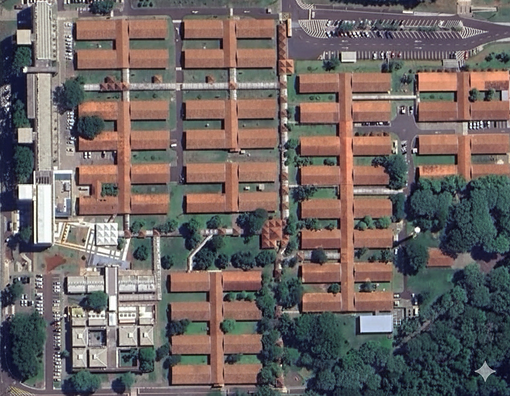
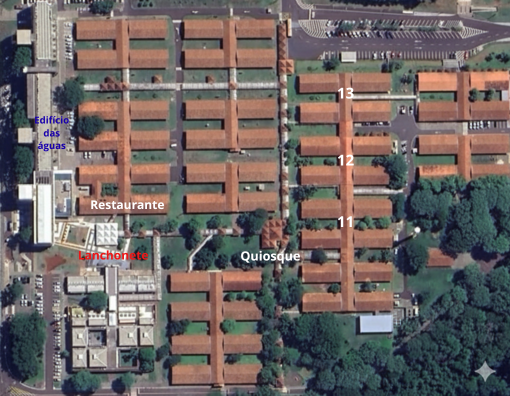
novas fotos

diff --git a/mapa.html b/mapa.html
@@ -69,16 +69,17 @@
     <!-- Pontos clicáveis -->
     <div class="ponto" data-scene="entrada" style="left:264px; top:40px;"></div>
     <div class="ponto" data-scene="edificio das aguas" style="left:60px; top:80px;"></div>
-    <div class="ponto" data-scene="entrada-eventos" style="left:300px; top:100px;"></div>
+    <div class="ponto" data-scene="entrada-eventos" style="left:315px; top:88px;"></div>
     <div class="ponto" data-scene="bloco 12" style="left:330px; top:180px;"></div>
     <div class="ponto" data-scene="quiosque" style="left:265px; top:225px;"></div>
     <div class="ponto" data-scene="porta lanchonete" style="left:120px; top:220px;"></div>
+    <div class="ponto" data-scene="LabMaker" style="left:400px; top:85px;"></div>
 
   </div>
 
   <script>
     // Recupera a última cena visitada ou usa 'entrada' como padrão
-    const ultimaCena = 'entrada';
+    const ultimaCena = localStorage.getItem('ultimaCena') ||'entrada';
 
     const viewer = pannellum.viewer('panorama', {
       "default": {
@@ -118,7 +119,6 @@
               "pitch": -10, "yaw": 85,
               "type": "scene",
               "text": "Seguir",
-              "scale": 10.0,
               "scale": 5.0,
               "sceneId": "blocos 8 e 9"
             },
@@ -220,7 +220,7 @@
           ]
         },
         "onibus-bloco7 fundos": {
-          "panorama": "./imgs/bloco7fundos_quiosque.jpeg",
+          "panorama": "./imgs/bloco7fundos_quiosque.jpg",
           "yaw": 40,
           "hotSpots": [
             {
@@ -264,7 +264,7 @@
               "type": "scene",
               "text": "LabMaker",
               "scale": 5.0,
-              "sceneId": ""
+              "sceneId": "caminho LabMaker"
             },
             {
               "pitch": -18, "yaw": 80,
@@ -275,8 +275,42 @@
             }
           ]
         },
+        "caminho LabMaker": {
+          "panorama": "./imgs/caminho labmaker.jpg",
+          "yaw":-10,
+          "hotSpots": [
+            {
+              "pitch": -5, "yaw": -20,
+              "type": "scene",
+              "text": "Labmaker",
+              "scale": 5.0,
+              "sceneId": "LabMaker"
+            },
+            {
+              "pitch": -5, "yaw": -190,
+              "type": "scene",
+              "text": "Voltar",
+              "scale": 5.0,
+              "sceneId": "entrada-eventos"
+            }
+          ]
+        },
+        "LabMaker": {
+          "panorama": "./imgs/labmaker.jpg",
+          "yaw":-10,
+          "hotSpots": [
+            {
+              "pitch": -18, "yaw": 80,
+              "type": "scene",
+              "text": "Voltar",
+              "scale": 5.0,
+              "sceneId": "entrada-eventos"
+            }
+          ]
+        },
         "entrada-florestan": {
-          "panorama": "./imgs/entrada_florestan.jpeg",
+          "panorama": "./imgs/entrada_florestan.jpg",
+          "yaw":-45,
           "hotSpots": [
             {
               "pitch": -5, "yaw": 0,
@@ -324,11 +358,39 @@
             {
               "pitch": -20, "yaw": 85,
               "type": "scene",
-              "text": "Bloco 12 - precisa editar ainda",
+              "text": "Bloco 12",
+              "targetYaw":70,
+              "scale": 5.0,
+              "sceneId": "bloco 12 coffee break"
+            }
+          ]
+        },
+        "bloco 12 coffee break": {
+          "yaw": 70,
+          "panorama": "./imgs/bloco 12 coffee break.jpg",
+          "hotSpots": [
+            {
+              "pitch": -10, "yaw": -95,
+              "type": "scene",
+              "text": "Voltar",
+              "targetYaw":130,
+              "scale": 5.0,
+              "sceneId": "divisao cesar lattes"
+            },
+            {
+              "pitch": -10, "yaw": 220,
+              "type": "scene",
+              "text": "Sair",
+              "scale": 5.0,
+              "sceneId": "onibus-eventos"
+            },
+            {
+              "pitch": -10, "yaw": 70,
+              "type": "scene",
+              "text": "Bloco 12",
               "scale": 5.0,
               "sceneId": "#"
             }
-
           ]
         },
         "florestan": {
@@ -593,11 +655,17 @@
   "bloco 7 2": {x:230, y:170},
   "fora bloco 7":{x:230,y:155},
   "edificio das aguas": { x: 67, y: 85 },
-  "entrada-eventos": { x: 305, y: 106 },
+  "entrada-eventos": { x: 322, y: 95 },
   "bloco 12": { x: 337, y: 185 },
   "quiosque": { x: 270, y: 230 },
   "quiosque biblioteca lanchonete":{x:153, y:225},
-  "porta lanchonete": { x: 126, y: 225 }
+  "porta lanchonete": { x: 126, y: 225 },
+  "caminho LabMaker": { x: 370, y: 95 },
+  "LabMaker": { x: 407, y: 92 },
+  "entrada-florestan": {x: 335, y: 120},
+  "divisao cesar lattes": {x: 335, y: 110},
+  "bloco 12 coffee break": {x: 335, y: 123},
+  
 };
 
     // Atualiza o marcador vermelho
